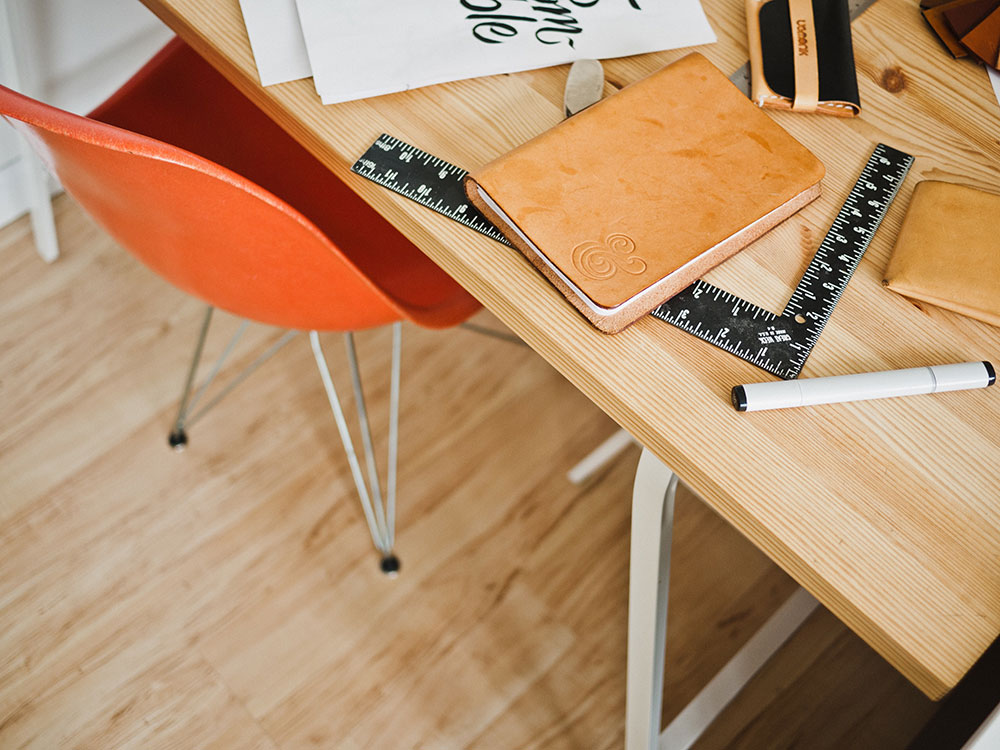
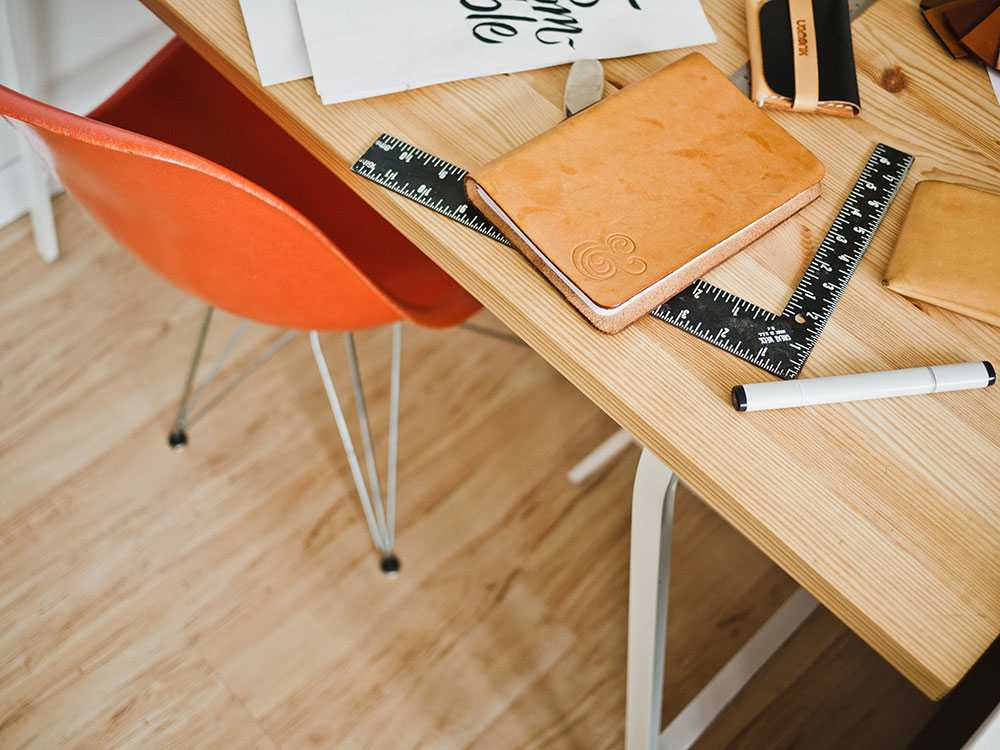
reduced image size

diff --git a/personal/templates/personal/home.html b/personal/templates/personal/home.html
@@ -5,7 +5,7 @@
     <div class="row mb-1" id="row1">
         <div class="col-xl-3 d-flex align-items-stretch">
             <div class="card my-2">
-                <img class="card-img-top" src="{% static 'personal/img/letters.png' %}" alt="letters">
+                <img class="card-img-top" src="{% static 'personal/img/letters.jpg' %}" alt="letters">
                 <div class="card-body d-xl-inline-flex flex-column justify-content-between">
                     <h5 class="card-title">Letters from DHE</h5>
                     <p class="card-text">Letters issued by the Directorate of Higher Education, Assam concerning provincialised colleges of Assam.</p>
@@ -22,12 +22,12 @@
                     </p>
                     <a href="#" class="btn btn-outline-dark">Read more</a>
                 </div>
-                <img class="card-img-bottom" src="{% static 'personal/img/payrules.png' %}" alt="payrules">
+                <img class="card-img-bottom" src="{% static 'personal/img/payrules.jpg' %}" alt="payrules">
             </div>
         </div>
         <div class="col-xl-3 d-flex align-items-stretch" onclick="location.href='{% url 'event-list' %}';">
             <div class="card my-2">
-                <img class="card-img-top" src="{% static 'personal/img/workshop.png' %}" alt="workshop">
+                <img class="card-img-top" src="{% static 'personal/img/workshop.jpg' %}" alt="workshop">
                 <div class="card-body d-xl-inline-flex flex-column justify-content-between">
                     <h5 class="card-title">Seminars and Workshops</h5>
                     <p class="card-text">Information pertaining to Seminars and Workshops organised by the Universities and Colleges of North-eastern
@@ -52,7 +52,7 @@
     <div class="row mb-1" id="row2">
         <div class="col-xl-3 d-flex align-items-stretch ">
             <div class="card my-2">
-                <img class="card-img-top" src="{% static 'personal/img/ugc.png' %}" alt="ugcregulation">
+                <img class="card-img-top" src="{% static 'personal/img/ugc.jpg' %}" alt="ugcregulation">
                 <div class="card-body d-xl-inline-flex flex-column justify-content-between">
                     <h5 class="card-title">UGC Regulations</h5>
                     <p class="card-text">UGC Regulations of 2010, 1998 and 1987 including relevant amendments and other regulations related to NET/PhD.
@@ -69,12 +69,12 @@
                     </p>
                     <a href="#" class="btn btn-outline-dark">Read more</a>
                 </div>
-                <img class="card-img-bottom" src="{% static 'personal/img/promotion.png' %}" alt="promotion">
+                <img class="card-img-bottom" src="{% static 'personal/img/promotion.jpg' %}" alt="promotion">
             </div>
         </div>
         <div class="col-xl-3 d-flex align-items-stretch ">
             <div class="card my-2">
-                <img class="card-img-top" src="{% static 'personal/img/pbas.png' %}" alt="pbas">
+                <img class="card-img-top" src="{% static 'personal/img/pbas.jpg' %}" alt="pbas">
                 <div class="card-body d-xl-inline-flex flex-column justify-content-between">
                     <h5 class="card-title">PBAS and API Score</h5>
                     <p class="card-text">Performance Based Appraisal System (PBAS) and Academic Performance Indicators (APIs) - clarifications, formats and calculations.</p>
@@ -89,14 +89,14 @@
                     <p class="card-text">Faculty Improvement Programme for teachers and librarians – guidelines and application formats for fellowship.</p>
                     <a href="#" class="btn btn-outline-dark">Read more</a>
                 </div>
-                <img class="card-img-bottom" src="{% static 'personal/img/fip.png' %}" alt="fip">
+                <img class="card-img-bottom" src="{% static 'personal/img/fip.jpg' %}" alt="fip">
             </div>
         </div>
     </div>
     <div class="row mb-1" id="row3">
         <div class="col-xl-3 d-flex align-items-stretch ">
             <div class="card my-2">
-                <img class="card-img-top" src="{% static 'personal/img/oprc.png' %}" alt="oprc">
+                <img class="card-img-top" src="{% static 'personal/img/oprc.jpg' %}" alt="oprc">
                 <div class="card-body d-xl-inline-flex flex-column justify-content-between">
                     <h5 class="card-title">OPs and RCs</h5>
                     <p class="card-text">Tentative schedule and application formats for UGC-sponsored OPs and RCs including weblinks of UGC-ASCs.</p>
@@ -112,12 +112,12 @@
                     </p>
                     <a href="#" class="btn btn-outline-dark">Read more</a>
                 </div>
-                <img class="card-img-bottom" src="{% static 'personal/img/sws.png' %}" alt="sws">
+                <img class="card-img-bottom" src="{% static 'personal/img/sws.jpg' %}" alt="sws">
             </div>
         </div>
         <div class="col-xl-3 d-flex align-items-stretch ">
             <div class="card my-2">
-                <img class="card-img-top" src="{% static 'personal/img/grant.png' %}" alt="grant">
+                <img class="card-img-top" src="{% static 'personal/img/grant.jpg' %}" alt="grant">
                 <div class="card-body d-xl-inline-flex flex-column justify-content-between">
                     <h5 class="card-title">Financial Grants</h5>
                     <p class="card-text">Financial grants from UGC and other sources for conference, workshops, seminars and research fellowships etc.
@@ -133,14 +133,14 @@
                     <p class="card-text">Rates of DA, GIS, HRA, MA, TA and Daily Allowance etc., Grades of Posts, Classification of Services, Fitment Tables and Increment Tables.</p>
                     <a href="#" class="btn btn-outline-dark">Read more</a>
                 </div>
-                <img class="card-img-bottom" src="{% static 'personal/img/readyrate.png' %}" alt="readyrate">
+                <img class="card-img-bottom" src="{% static 'personal/img/readyrate.jpg' %}" alt="readyrate">
             </div>
         </div>
     </div>
     <div class="row mb-1" id="row4">
         <div class="col-xl-3 d-flex align-items-stretch ">
             <div class="card my-2">
-                <img class="card-img-top" src="{% static 'personal/img/arrearcalc.png' %}" alt="arrearcalc">
+                <img class="card-img-top" src="{% static 'personal/img/arrearcalc.jpg' %}" alt="arrearcalc">
                 <div class="card-body d-xl-inline-flex flex-column justify-content-between">
                     <h5 class="card-title">Pay and Arrears Calculations</h5>
                     <p class="card-text">MS Excel files to prepare Pay Fixation Forms and to calculate revised salary including arrears as per formats.</p>
@@ -156,12 +156,12 @@
                     </p>
                     <a href="#" class="btn btn-outline-dark">Read more</a>
                 </div>
-                <img class="card-img-bottom" src="{% static 'personal/img/retire.png' %}" alt="retire">
+                <img class="card-img-bottom" src="{% static 'personal/img/retire.jpg' %}" alt="retire">
             </div>
         </div>
         <div class="col-xl-3 d-flex align-items-stretch ">
             <div class="card my-2">
-                <img class="card-img-top" src="{% static 'personal/img/leave.png' %}" alt="leave">
+                <img class="card-img-top" src="{% static 'personal/img/leave.jpg' %}" alt="leave">
                 <div class="card-body d-xl-inline-flex flex-column justify-content-between">
                     <h5 class="card-title">FAQs on Leave Rules</h5>
                     <p class="card-text">Answers to Frequently Asked Questions (FAQs) on Revised Leave Rules 1934.</p>
@@ -176,14 +176,14 @@
                     <p class="card-text">Web sites of different Academic Journals.</p>
                     <a href="#" class="btn btn-outline-dark">Read more</a>
                 </div>
-                <img class="card-img-bottom" src="{% static 'personal/img/journals.png' %}" alt="journals">
+                <img class="card-img-bottom" src="{% static 'personal/img/journals.jpg' %}" alt="journals">
             </div>
         </div>
     </div>
     <div class="row mb-1" id="row5">
         <div class="col-xl-3 d-flex align-items-stretch ">
             <div class="card my-2">
-                <img class="card-img-top" src="{% static 'personal/img/websites.png' %}" alt="websites">
+                <img class="card-img-top" src="{% static 'personal/img/websites.jpg' %}" alt="websites">
                 <div class="card-body d-xl-inline-flex flex-column justify-content-between">
                     <h5 class="card-title">Academic Web Sites</h5>
                     <p class="card-text">Weblinks of different institutions / organisations and many others.</p>
@@ -199,7 +199,7 @@
                     </p>
                     <a href="#" class="btn btn-outline-dark">Read more</a>
                 </div>
-                <img class="card-img-bottom" src="{% static 'personal/img/college.png' %}" alt="colleges">
+                <img class="card-img-bottom" src="{% static 'personal/img/college.jpg' %}" alt="colleges">
             </div>
         </div>
     </div>
